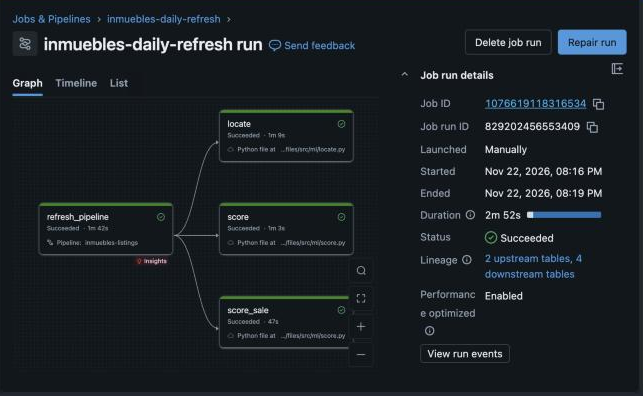
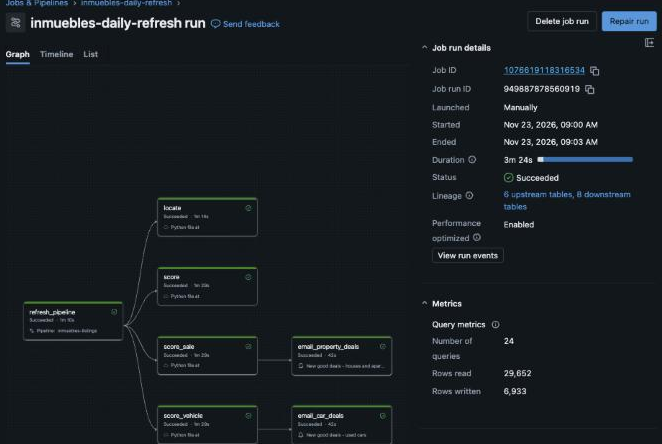
Update the Databricks screenshots for cars and daily emails
New captures of the pipeline with both flows, the daily job with the car
scoring and the two email steps, the car model in Unity Catalog, the
dashboard's Used cars page and a new-deals email. Emails are hidden.

diff --git a/databricks/README.md b/databricks/README.md
@@ -38,21 +38,25 @@ flowchart LR
 
 Screenshots from the Free Edition workspace, 22 and 23 Nov 2026. Emails are hidden.
 
-**Lakeflow pipeline.** One update reads the new CSV files (bronze), cleans them (silver drops 44K rows that break a data rule) and builds the rent and sale tables (gold).
+**Lakeflow pipeline.** One update reads the new property and car files (bronze), cleans them (silver) and builds the rent, sale and car tables (gold): seven tables in two flows.
 
-![Lakeflow pipeline update with its four tables](docs/screenshots/pipeline.png)
+![Lakeflow pipeline update with its seven tables](docs/screenshots/pipeline.png)
 
-**Daily job.** Refreshes the pipeline, then places listings on the map (`locate`) and prices every active listing with both models (`score`, `score_sale`).
+**Daily job.** Refreshes the pipeline, places listings on the map (`locate`) and prices every active listing with the three models (`score`, `score_sale`, `score_vehicle`). Then it runs the two alerts that email the new good deals (`email_property_deals`, `email_car_deals`).
 
 ![inmuebles-daily-refresh run graph](docs/screenshots/daily-refresh-job.png)
+
+**Daily email.** The used-cars alert of 23 Nov 2026, as it arrives on a phone. Each new deal links to its listing and says why it is a deal. The address and the alert link are cut out.
+
+<img src="docs/screenshots/email-car-deals.png" width="360" alt="Email with the new used-car deals">
 
 **Training run in MLflow.** The monthly sale retrain: the validation error of each candidate (`valid_mape_*`), the test error of the new model (`challenger_mape` 19.4%) against the old champion (21.1%) and the barrio median (52.5%), and the tuned settings.
 
 ![MLflow run with metrics and tuned parameters](docs/screenshots/mlflow-run.png)
 
-**Unity Catalog.** The tables of the `inmuebles` schema and the rent model versions. Version 5 has the alias `campeon` and is served by `rent-price`; version 6 is the latest challenger (`retador`), not promoted.
+**Unity Catalog.** The `inmuebles` schema: its tables, the two volumes the scrapers fill (`csv_diarios`, `csv_vehiculos`) and the three models. For the car model, version 1 has the alias `campeon`; version 2 is the latest challenger (`retador`), not promoted.
 
-![Catalog Explorer with the rent_price_model versions](docs/screenshots/model-registry.png)
+![Catalog Explorer with the vehicle_price_model versions](docs/screenshots/model-registry.png)
 
 **Model Serving.** Both endpoints are ready: rent serves version 5, sale version 2.
 
@@ -63,6 +67,10 @@ Screenshots from the Free Edition workspace, 22 and 23 Nov 2026. Emails are hidd
 ![Dashboard price charts](docs/screenshots/dashboard-charts.png)
 
 ![Dashboard barrio maps](docs/screenshots/dashboard-maps.png)
+
+The Used cars page: filters by brand, line, year, body type, transmission, fuel, dealer, date last seen and good deals, the counters, and the median price by model year with its spread.
+
+![Dashboard Used cars page](docs/screenshots/dashboard-cars.png)
 
 **Databricks App.** An estimate with its likely range, the clickable diagram of how it was built, and the live model cards.
 

diff --git a/README.md b/README.md
@@ -54,7 +54,9 @@ The rent error is high because most recent rentals have no area (a scraper probl
 | ![Dashboard barrio maps](databricks/docs/screenshots/dashboard-maps.png) | ![App diagram with the Training step open](databricks/docs/screenshots/app-pipeline-diagram.png) |
 | Dashboard: median price per barrio in Bogota and in Medellin, Envigado and Sabaneta | App: the clickable diagram of how the estimate is built |
 | ![inmuebles-daily-refresh run graph](databricks/docs/screenshots/daily-refresh-job.png) | ![MLflow run with metrics and tuned parameters](databricks/docs/screenshots/mlflow-run.png) |
-| The daily job: refresh, score each model, locate barrios | A monthly retrain in MLflow: each candidate's error and the tuned settings |
+| The daily job: refresh, locate barrios, score the three models, email the new deals | A monthly retrain in MLflow: each candidate's error and the tuned settings |
+| <img src="databricks/docs/screenshots/email-car-deals.png" width="320" alt="Email with the new used-car deals"> | ![Dashboard Used cars page](databricks/docs/screenshots/dashboard-cars.png) |
+| The daily email: each new deal with its link and why it is a deal | Dashboard: the Used cars page, with filters, counters and prices by model year |
 
 More in [Running on Databricks](databricks/README.md#running-on-databricks).
 
